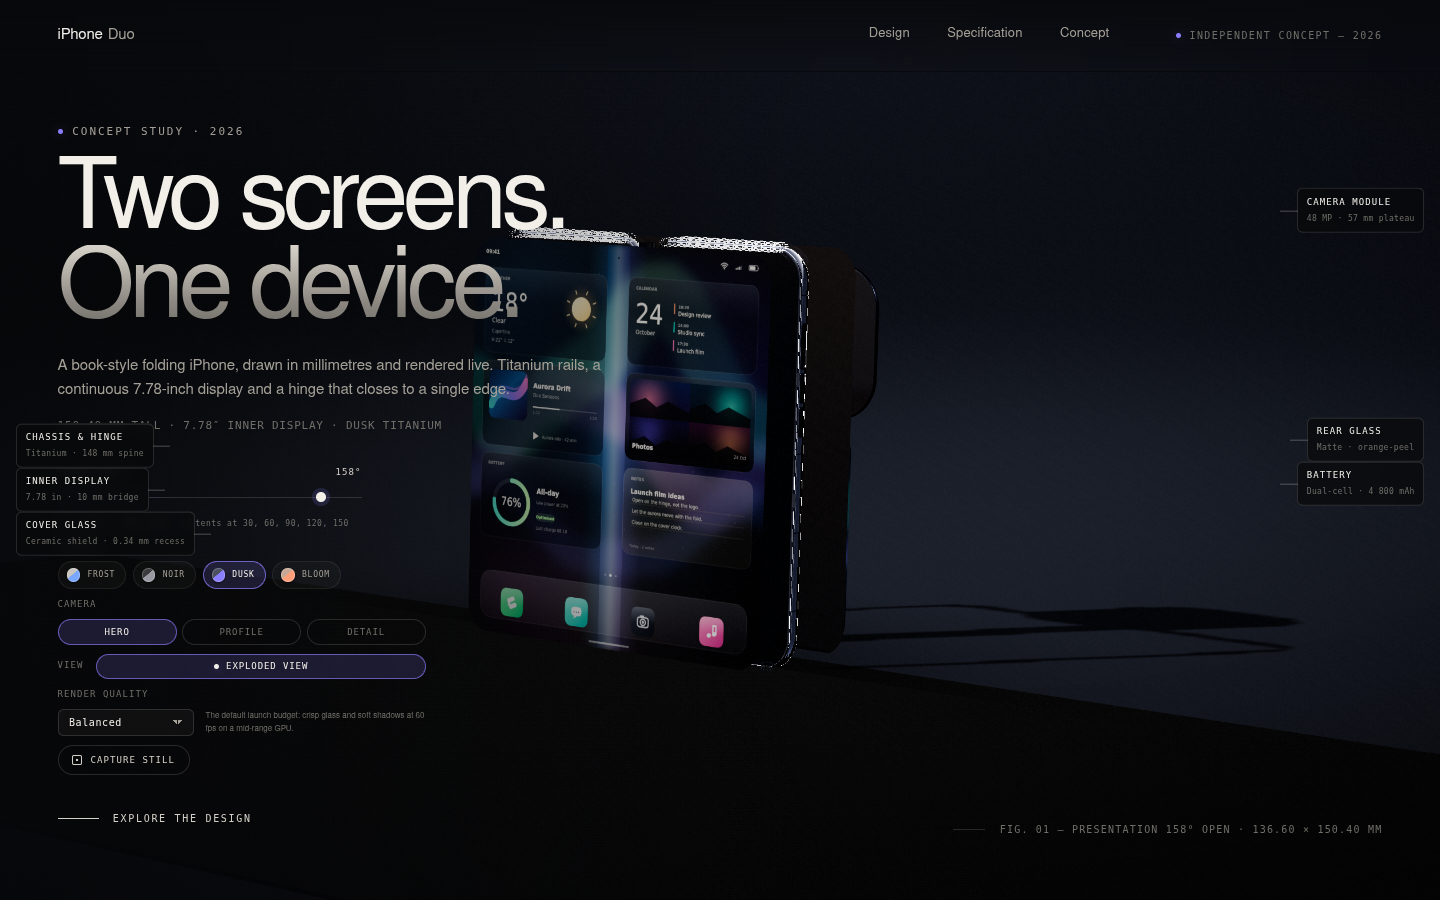
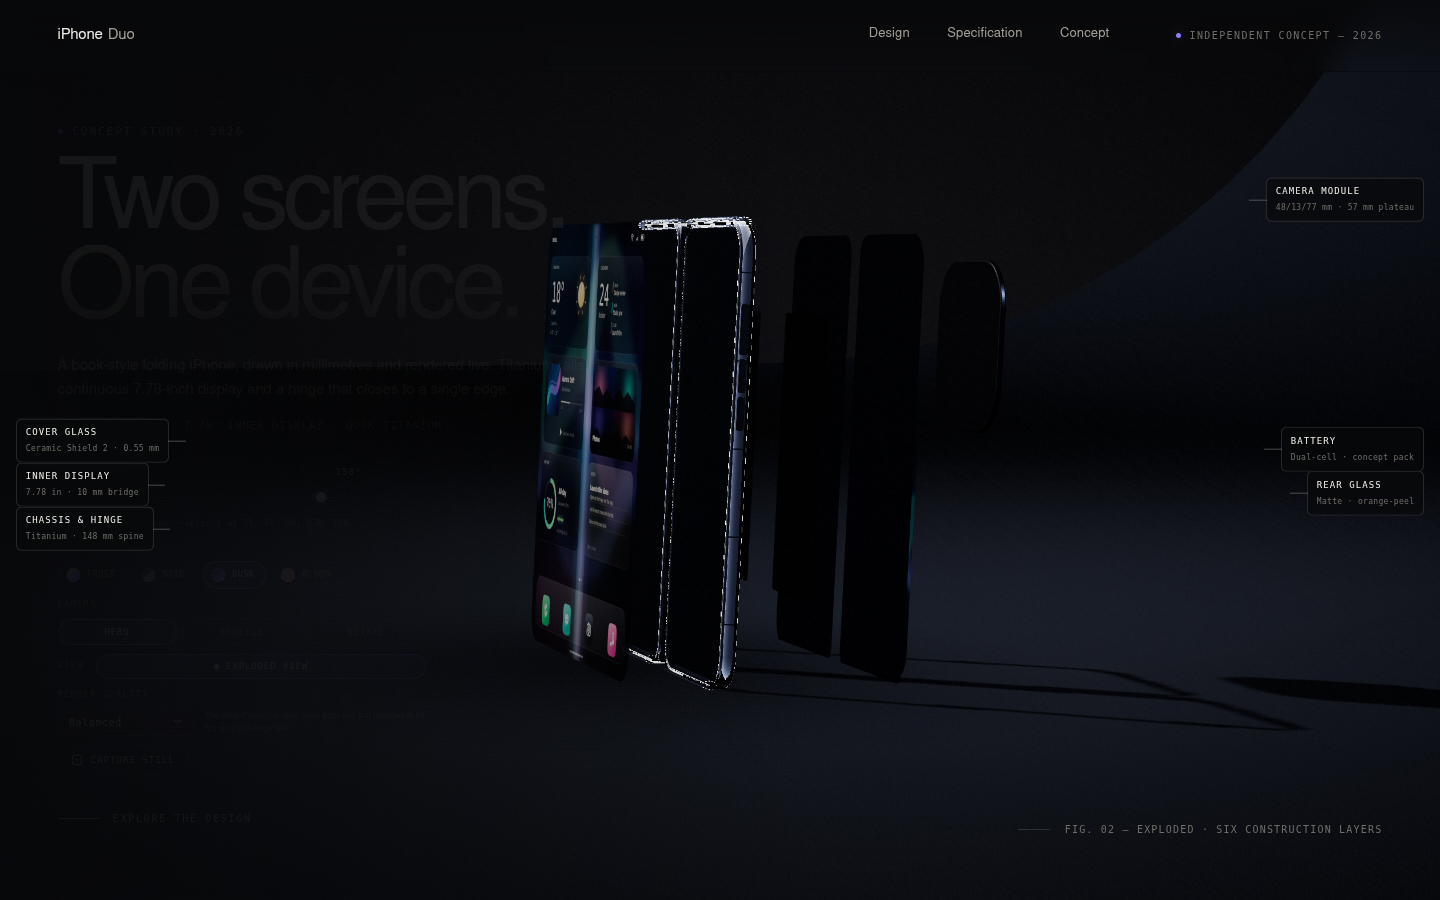
docs(evidence): refresh shots for the exploded camera and detail macro

diff --git a/README.md b/README.md
@@ -34,6 +34,8 @@ The studio console sits under the hero copy:
   glass, camera plateau and interface accent together.
 - **Camera** — Hero, Profile and Detail presets reframe the same physical scene;
   the camera moves, the device never rescales.
+- **Orbit and zoom** — drag the stage to orbit, scroll or pinch to zoom, use the
+  arrow and +/- keys when the stage is focused, and press 0 to reset.
 - **Exploded view** — separates the assembly into labelled layers while keeping
   the hinge relationship readable.
 - **Render quality** — Cinematic, Balanced and Efficient tiers trade pixel ratio
@@ -58,8 +60,8 @@ src/app/        duo-app.ts (DuoApp facade), boot.ts (DOM binding), content.ts
 
 `DuoApp` is the only seam tests and the DOM share: `mount`, `dispose`,
 `setColourway`, `setFoldAngle`, `setPreset`, `setExploded`, `setQuality`,
-`getState`. The DOM never reaches into scene objects, and the scene never reads
-the DOM.
+`orbitBy`, `zoomBy`, `resetOrbit`, `getOrbit`, `captureScreenshot`, `getState`.
+The DOM never reaches into scene objects, and the scene never reads the DOM.
 
 The studio is procedural too: a dark cyclorama, softbox reflections built from
 emissive geometry, and a contact shadow. The displays are drawn into canvases at
@@ -94,6 +96,7 @@ uploads them as artifacts):
 | `hero-mobile.png` | The mobile hero at 390 × 844 |
 | `folded.png` | The rig at 90° |
 | `exploded.png` | Labelled exploded assembly |
+| `detail.png` | Detail macro on the camera plateau and rail |
 | `colourways.png` | Four-finish comparison |
 
 Every shot comes from `?test=1`, so it is motion-free; the evidence suite drives explicit deterministic states and waits for a settled frame rather than a wall-clock delay.
@@ -119,12 +122,16 @@ live URL always matches the current build. The build uses relative asset paths
 
 ## Known follow-ups
 
-- Under SwiftShader, a faint specular seam can appear where the rail meets the
-  inner glass at grazing angles; hardware GPUs are clean.
-- The mobile hero can overlap the console at very short viewports; the 390 × 844
-  reference frame is clean.
-- Free orbit and zoom are not exposed yet; the three camera presets are the
-  supported way to reframe the studio.
+- Under SwiftShader, a dashed specular seam remains at the rail/glass silhouette
+  at grazing angles. Materials, tessellation, softbox intensity and glass recess
+  have been adjusted; this is the main outstanding visual defect.
+- The 390 × 844 mobile hero now fills more of the stage but still overlaps the
+  headline; it needs another portrait framing pass.
+- The 10 mm bridge preserves developed length exactly, but the nominal 1.8 mm
+  bend radius is only met around 123° open; full closure is a constant-length
+  hairpin (reference sheet §11.3).
+- The Apple mark is on the left half's exposed rear glass because the right half's
+  rear face carries the cover display and plateau (reference sheet §11.6).
 
 ---
 
